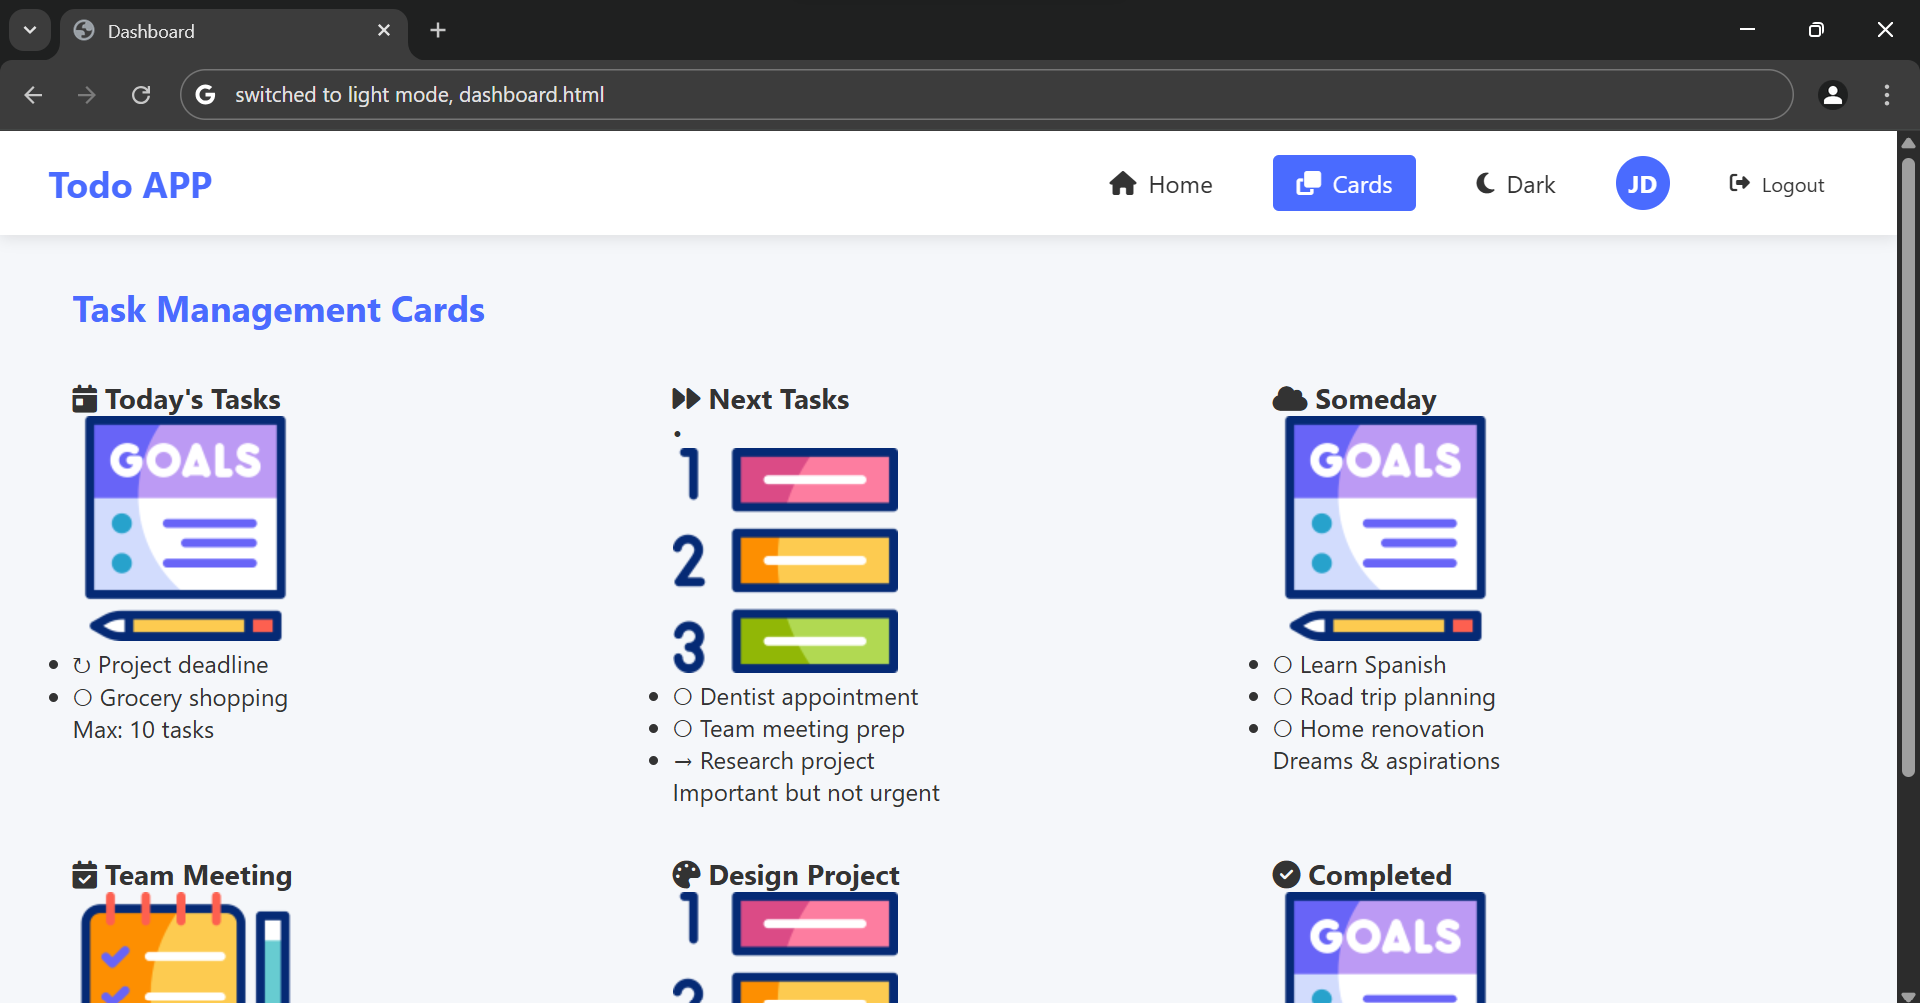
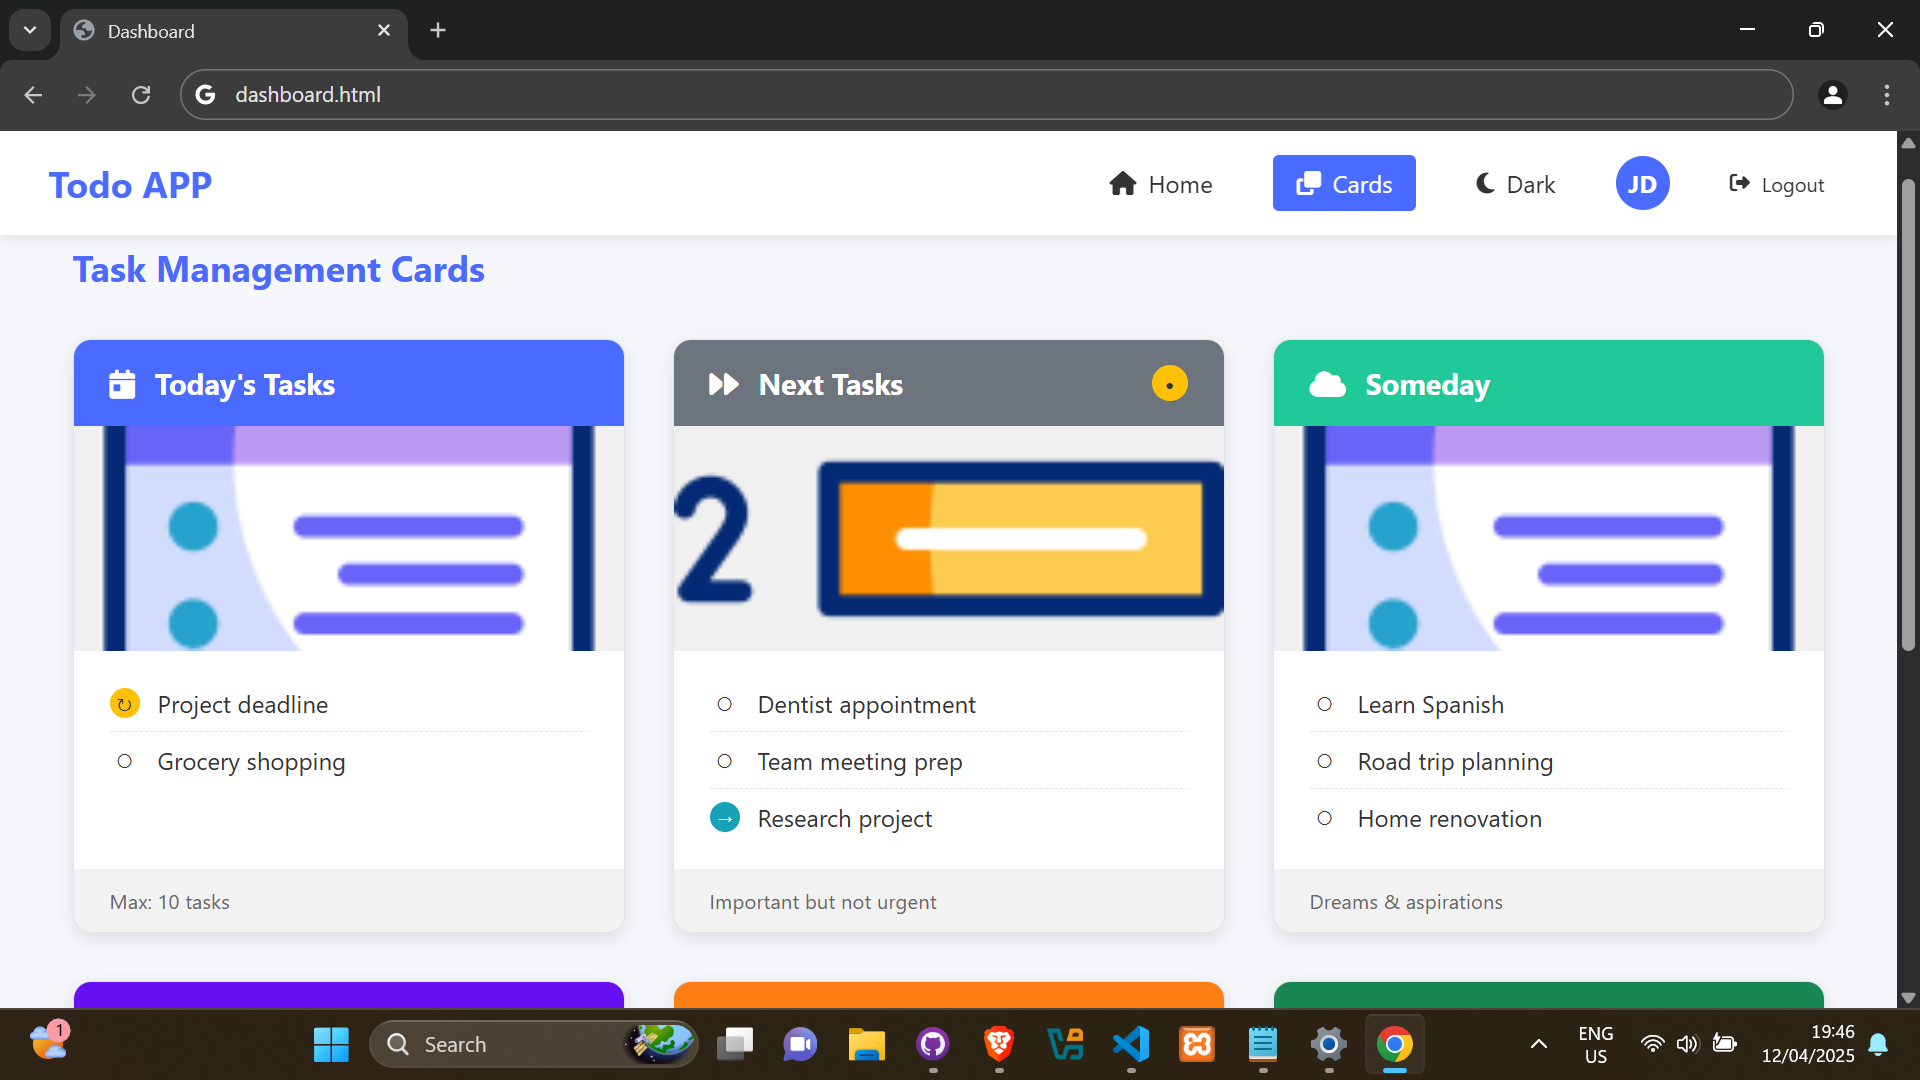
working version

diff --git a/styles/dashboard.css b/styles/dashboard.css
@@ -270,30 +270,198 @@ body {
   margin: 0 auto;
 }
 
-.card {
+/* Enhanced Task Cards */
+.cards-container {
+  display: grid;
+  grid-template-columns: repeat(auto-fill, minmax(300px, 1fr));
+  gap: 2rem;
+  margin: 0 auto;
+}
+
+.task-card {
   background-color: var(--card-bg);
-  border-radius: 8px;
-  padding: 1.5rem;
-  box-shadow: 0 2px 10px var(--shadow);
+  border-radius: 12px;
+  overflow: hidden;
+  box-shadow: 0 4px 12px var(--shadow);
   border: 1px solid var(--border);
-  transition: all 0.3s ease;
+  transition: transform 0.3s ease;
+  display: flex;
+  flex-direction: column;
 }
 
-.card:hover {
+.task-card:hover {
   transform: translateY(-5px);
-  box-shadow: 0 5px 15px var(--shadow);
+  box-shadow: 0 8px 16px var(--shadow);
 }
 
-.card h3 {
-  margin-bottom: 1rem;
+.card-header {
+  padding: 1rem 1.5rem;
+  background-color: var(--primary);
+  color: white;
+  display: flex;
+  justify-content: space-between;
+  align-items: center;
+}
+
+.card-header h3 {
+  margin: 0;
+  font-size: 1.2rem;
+  color: white;
+}
+
+.card-header i {
+  margin-right: 0.5rem;
+}
+
+.card-image-placeholder {
+  height: 150px;
+  background-color: #f0f0f0;
+  overflow: hidden;
+}
+
+.card-image-placeholder img {
+  width: 100%;
+  height: 100%;
+  object-fit: cover;
+}
+
+.task-list {
+  padding: 1rem 1.5rem;
+  list-style: none;
+  flex-grow: 1;
+}
+
+.task-list li {
+  padding: 0.5rem 0;
+  border-bottom: 1px dashed var(--border);
+  display: flex;
+  align-items: center;
+}
+
+.task-list li:last-child {
+  border-bottom: none;
+}
+
+.task-signal {
+  display: inline-block;
+  width: 20px;
+  height: 20px;
+  border-radius: 50%;
+  text-align: center;
+  line-height: 20px;
+  margin-right: 0.75rem;
+  font-size: 0.8rem;
+}
+
+.task-signal.completed {
+  background-color: #28a745;
+  color: white;
+}
+
+.task-signal.in-progress {
+  background-color: #ffc107;
+  color: #333;
+}
+
+.task-signal.delegated {
+  background-color: #17a2b8;
+  color: white;
+}
+
+.card-signal {
+  display: inline-block;
+  width: 24px;
+  height: 24px;
+  border-radius: 50%;
+  text-align: center;
+  line-height: 24px;
+  font-weight: bold;
+}
+
+.card-signal.high-priority {
+  background-color: #dc3545;
+  color: white;
+}
+
+.card-signal.medium-priority {
+  background-color: #ffc107;
+  color: #333;
+}
+
+.card-signal.low-priority {
+  background-color: #6c757d;
+  color: white;
+}
+
+.card-footer {
+  padding: 0.75rem 1.5rem;
+  background-color: rgba(0, 0, 0, 0.05);
+  font-size: 0.85rem;
+  color: var(--text-light);
+}
+
+.event-details {
+  padding: 1rem 1.5rem;
+}
+
+.event-details p {
+  margin: 0.5rem 0;
+  display: flex;
+  align-items: center;
+}
+
+.event-details i {
+  width: 20px;
+  margin-right: 0.75rem;
   color: var(--primary);
 }
 
-.card p {
-  color: var(--text);
-  line-height: 1.6;
+/* Card Type Variations */
+.today-card .card-header {
+  background-color: #4a6bff;
 }
 
+.next-card .card-header {
+  background-color: #6c757d;
+}
+
+.someday-card .card-header {
+  background-color: #20c997;
+}
+
+.event-card .card-header {
+  background-color: #6610f2;
+}
+
+.creative-card .card-header {
+  background-color: #fd7e14;
+}
+
+.completed-card .card-header {
+  background-color: #198754;
+}
+
+/* Dark Mode Adjustments */
+[data-theme="dark"] .card-footer {
+  background-color: rgba(255, 255, 255, 0.05);
+}
+
+[data-theme="dark"] .task-list li {
+  border-bottom-color: #444;
+}
+
+/* Responsive Layout */
+@media (max-width: 992px) {
+  .cards-container {
+    grid-template-columns: repeat(2, 1fr);
+  }
+}
+
+@media (max-width: 768px) {
+  .cards-container {
+    grid-template-columns: 1fr;
+  }
+}
 /* Responsive Styles */
 @media (max-width: 992px) {
   .cards-container {

diff --git a/styles/style.css b/styles/style.css
@@ -1,4 +1,3 @@
-/* LOGIN PAGE */
 :root {
   --bg-color: #ffffff;
   --page-bg: #f5f5f5;
